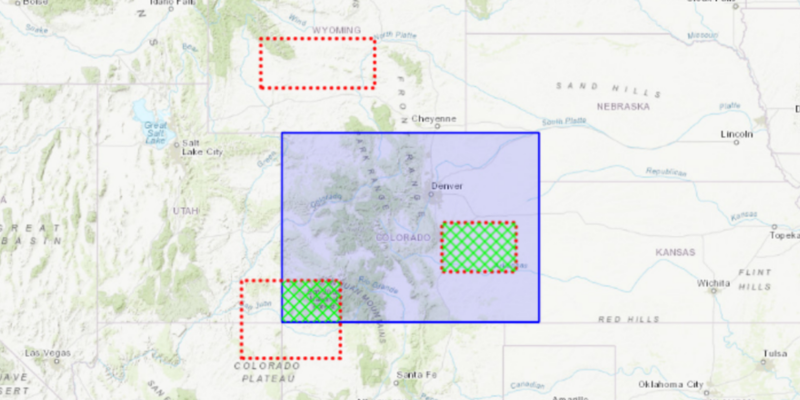
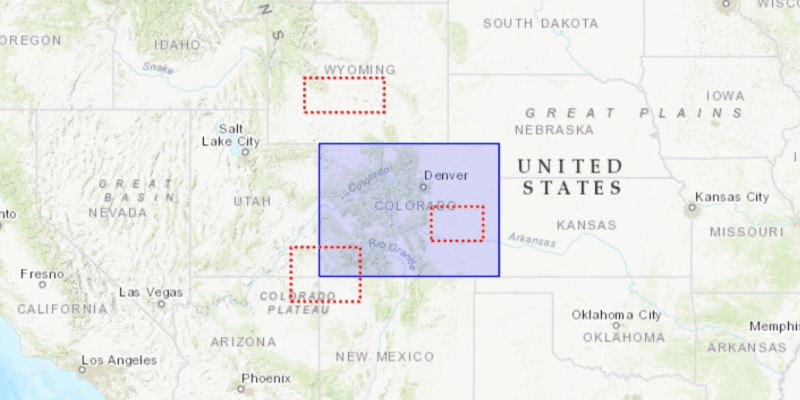
show only clipped areas of graphic when clipped

diff --git a/src/main/java/com/esri/samples/geometry/clip_geometry/ClipGeometrySample.java b/src/main/java/com/esri/samples/geometry/clip_geometry/ClipGeometrySample.java
@@ -109,13 +109,12 @@ public class ClipGeometrySample extends Application {
       // create a button to perform the clip operation
       Button clipButton = new Button("Clip");
       clipButton.setOnAction(e -> {
-        // for each envelope, clip the Colorado geometry and show the result as a green graphic
-        SimpleFillSymbol clippedAreaSymbol =
-            new SimpleFillSymbol(SimpleFillSymbol.Style.DIAGONAL_CROSS, 0xFF00FF00, null);
+        // for each envelope, clip the Colorado geometry and show the result, replacing the original Colorado graphic
+        coloradoGraphic.setVisible(false);
         envelopesOverlay.getGraphics().forEach(graphic -> {
           Geometry geometry = GeometryEngine.clip(coloradoGraphic.getGeometry(), (Envelope) graphic.getGeometry());
           if (geometry != null) {
-            Graphic clippedGraphic = new Graphic(geometry, clippedAreaSymbol);
+            Graphic clippedGraphic = new Graphic(geometry, fillSymbol);
             clipAreasOverlay.getGraphics().add(clippedGraphic);
           }
         });

diff --git a/src/main/java/com/esri/samples/geometry/clip_geometry/README.md b/src/main/java/com/esri/samples/geometry/clip_geometry/README.md
@@ -2,12 +2,11 @@
 
 <p>Demonstrates how to clip a geometry with an envelope using the GeometryEngine.</p>
 
-<p><img src="ClipGeometry.png"/></p>
+<p><img src="ClipGeometry.gif"/></p>
 
 <h2>How to use the sample</h2>
 
-<p>Click the "Clip" button to clip the blue graphic with each of the red envelopes and see the resulting geometries as 
-green graphics.</p>
+<p>Click the "Clip" button to clip the blue graphic with the red envelopes.</p>
 
 <h2>How it works</h2>
 
